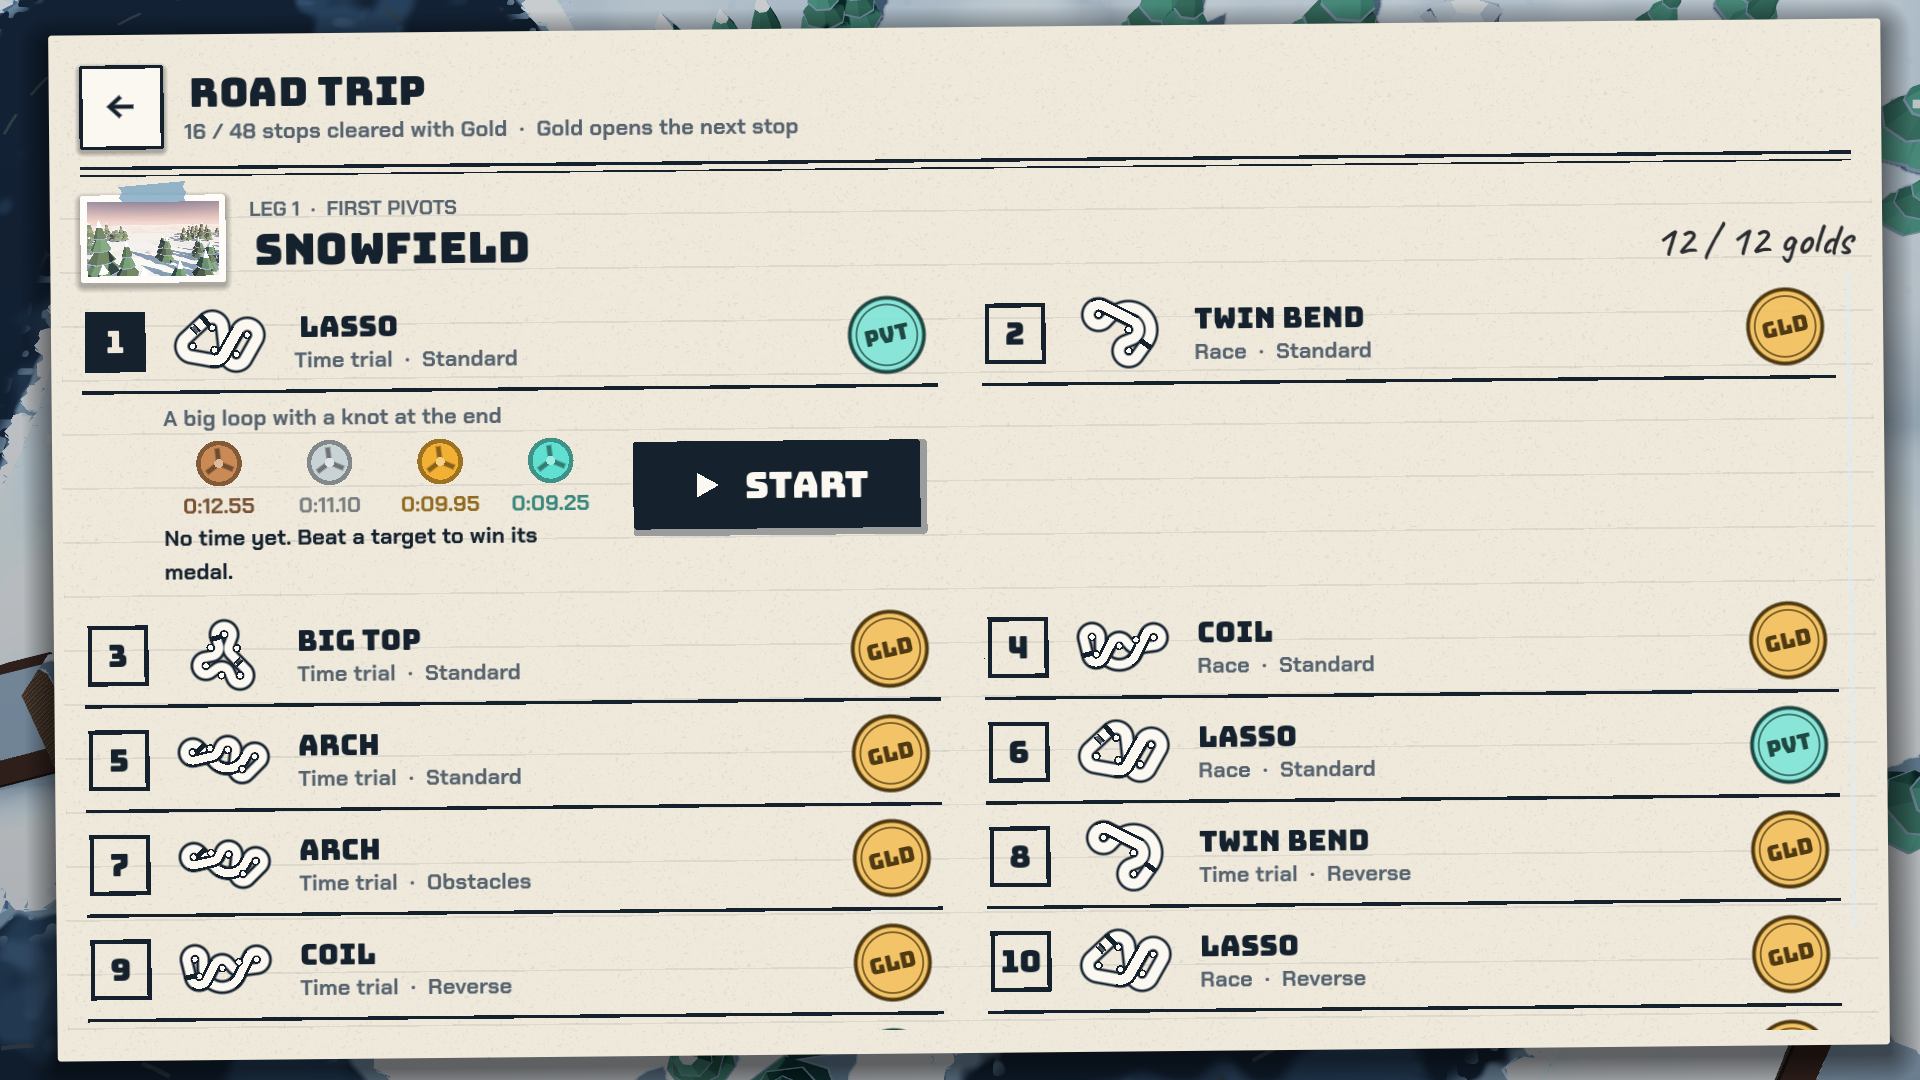
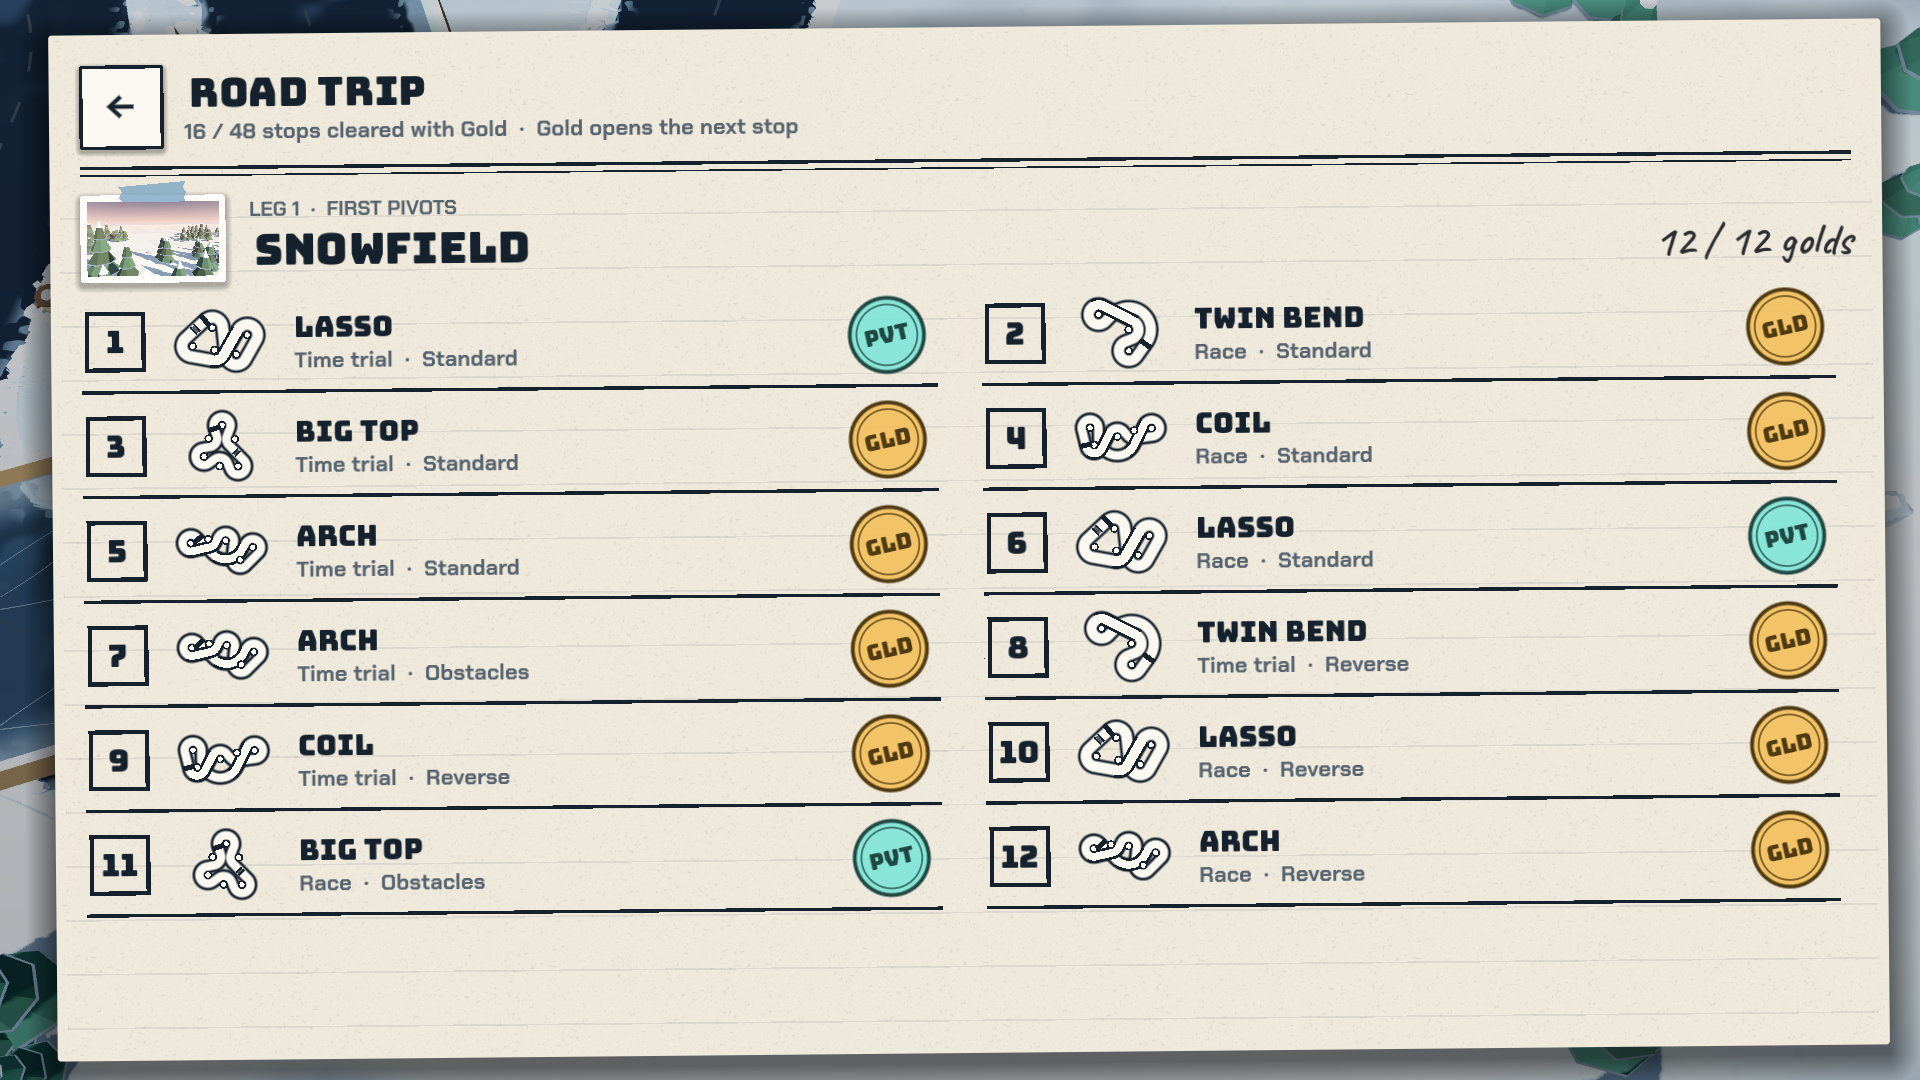
Road Trip: one tap on a stop starts its race, no panel or target times (#96)
Guillaume: the medal stamped on each stop is enough. The in-place panel
(note, targets, Start) is gone; the list scrolls back to the raced stop.

Claude-Session: https://claude.ai/code/session_01VxP4fqdAPuwWpkdYV4h3gM

diff --git a/AGENTS.md b/AGENTS.md
@@ -174,10 +174,10 @@ Only redo the ones where the change is visible, and put before/after images in t
   Road Trip events and didn't like it, 2026-11-14).
   Landscape on a phone (~800 logical px wide) gets one column of stops: two cut the names.
 - Road Trip screens (Guillaume, 2026-11-14): the world select (taped photos) is the only way to change
-  world; a world's stops page has no world tabs. There is no separate page per stop: tapping a stop
-  opens it in place in the list (its note, medal targets, what Gold does, and Start; `_stop_details`),
-  and the stop shown open is `ev` (the one picked or raced last, else the next to play). The stand-alone
-  event page (`show_event`) is only for Special Stages, Two for the Road and the Daily Detour.
+  world; a world's stops page has no world tabs. A tap on a stop starts its race at once: no page,
+  panel or target times per stop (the medal stamped on the line says enough). After a race the list
+  scrolls back to that stop (`ev`). The stand-alone event page (`show_event`) is only for Special
+  Stages, Two for the Road and the Daily Detour.
   Covered by `tests/swipe_test.gd`.
 - Time attack tracks (Guillaume, 2026-11-13): a track is open in Time attack once a campaign event on
   it is unlocked (`Campaign.attack_tracks()`); shut ones are greyed with a padlock and skipped by the
